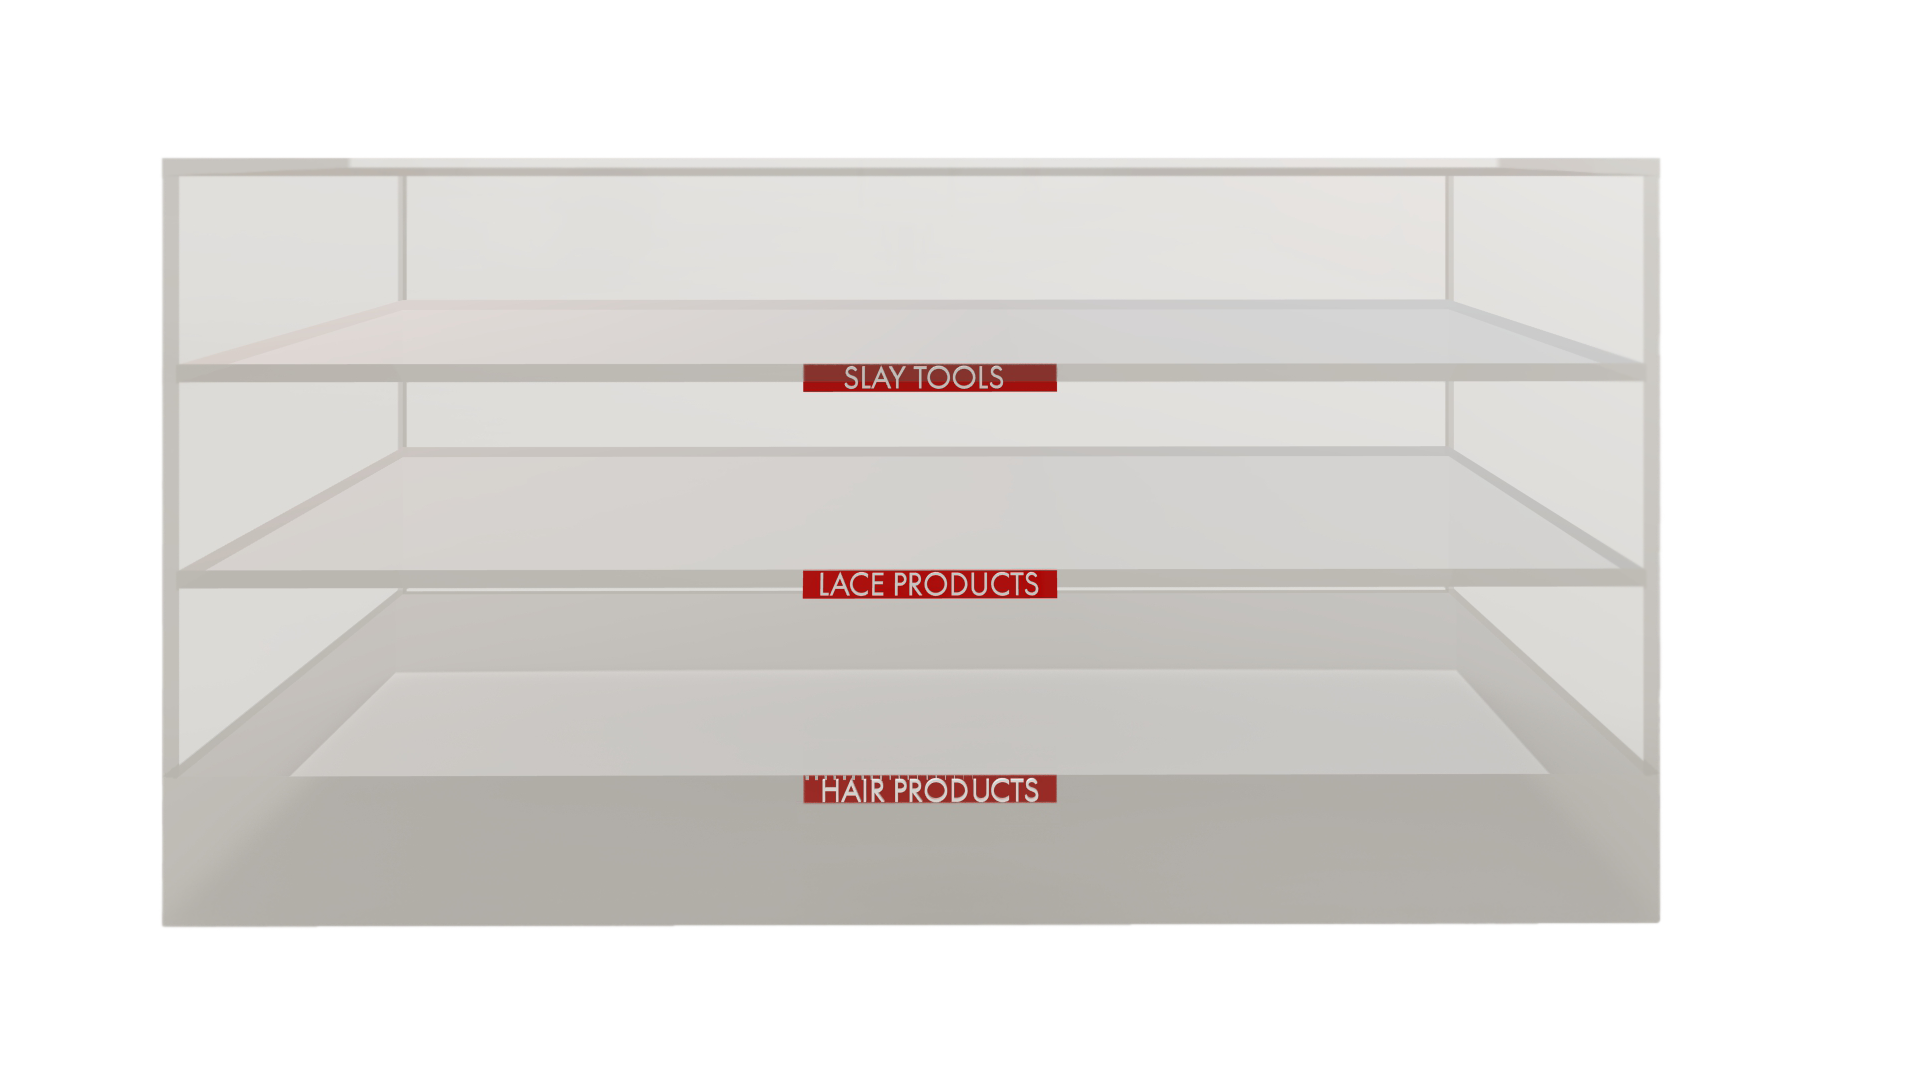
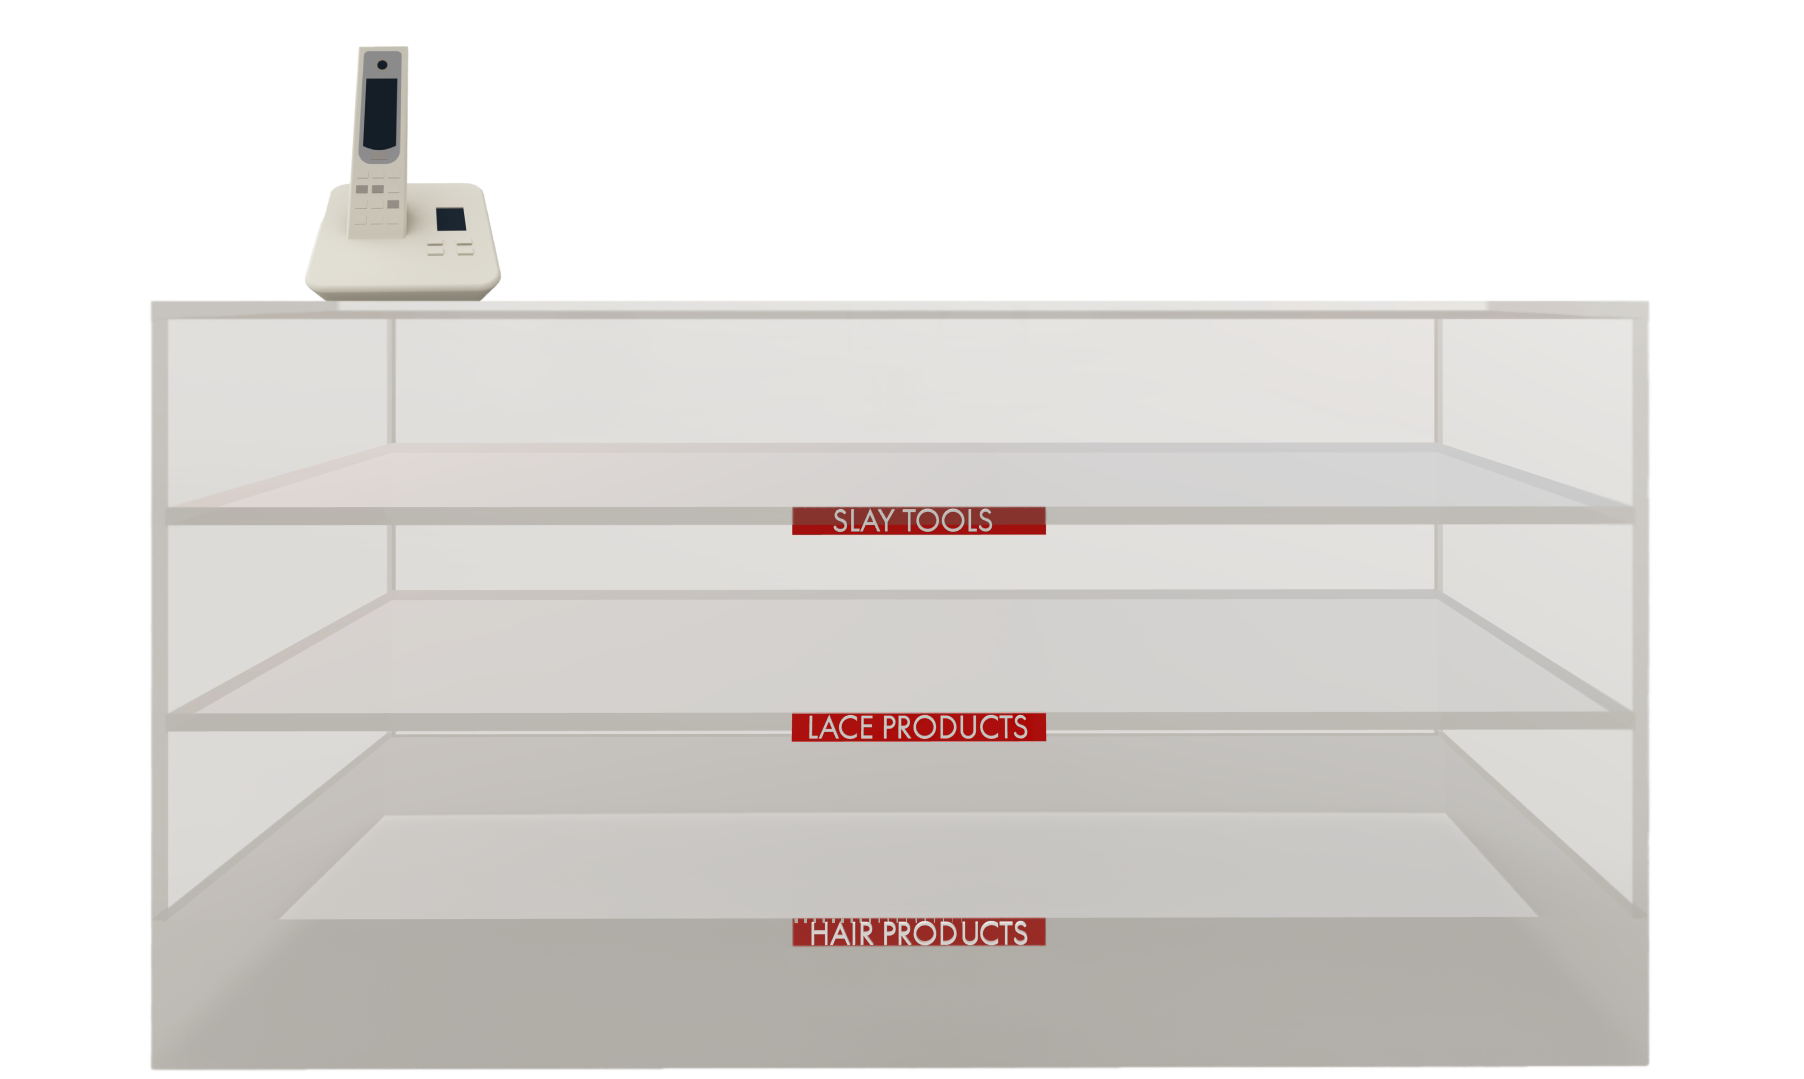
merge phone and shelf

diff --git a/src/sections/products.js b/src/sections/products.js
@@ -35,9 +35,9 @@ const Products = ({ data }) => {
           <Box sx={styles.bottomShelf}>
             <Image src={flowerHolder} sx={styles.leftFlowers} alt="shelf" />
             <Box sx={styles.shelfWrapper}>
-              <Link sx={styles.shelfWrapper.phoneLink} path="/contact" label="">
+              {/* <Link sx={styles.shelfWrapper.phoneLink} path="/contact" label="">
                 <Image sx={styles.shelfWrapper.phone} src={phone} alt="shelf" />
-              </Link>
+              </Link> */}
               <Image
                 sx={styles.shelfWrapper.shelf}
                 src={bottomShelf}
@@ -132,9 +132,14 @@ const styles = {
 
     shelf: {
       position: "absolute",
-      right: ["8%", "8%", "8%", "17.5%"],
-      bottom: [" -37px !important", " -37px !important", " -96px !important"],
-      width: [" 80%", " 80%", " 80%", " 60%"],
+      right: ["14%", "14%", "14%", "20.5%"],
+      bottom: [
+        " -9px !important",
+        " -9px !important",
+        " -9px !important",
+        " -14px !important",
+      ],
+      width: [" 70%", " 70%", " 70%", " 55%"],
     },
     phoneLink: {
       position: "relative",
